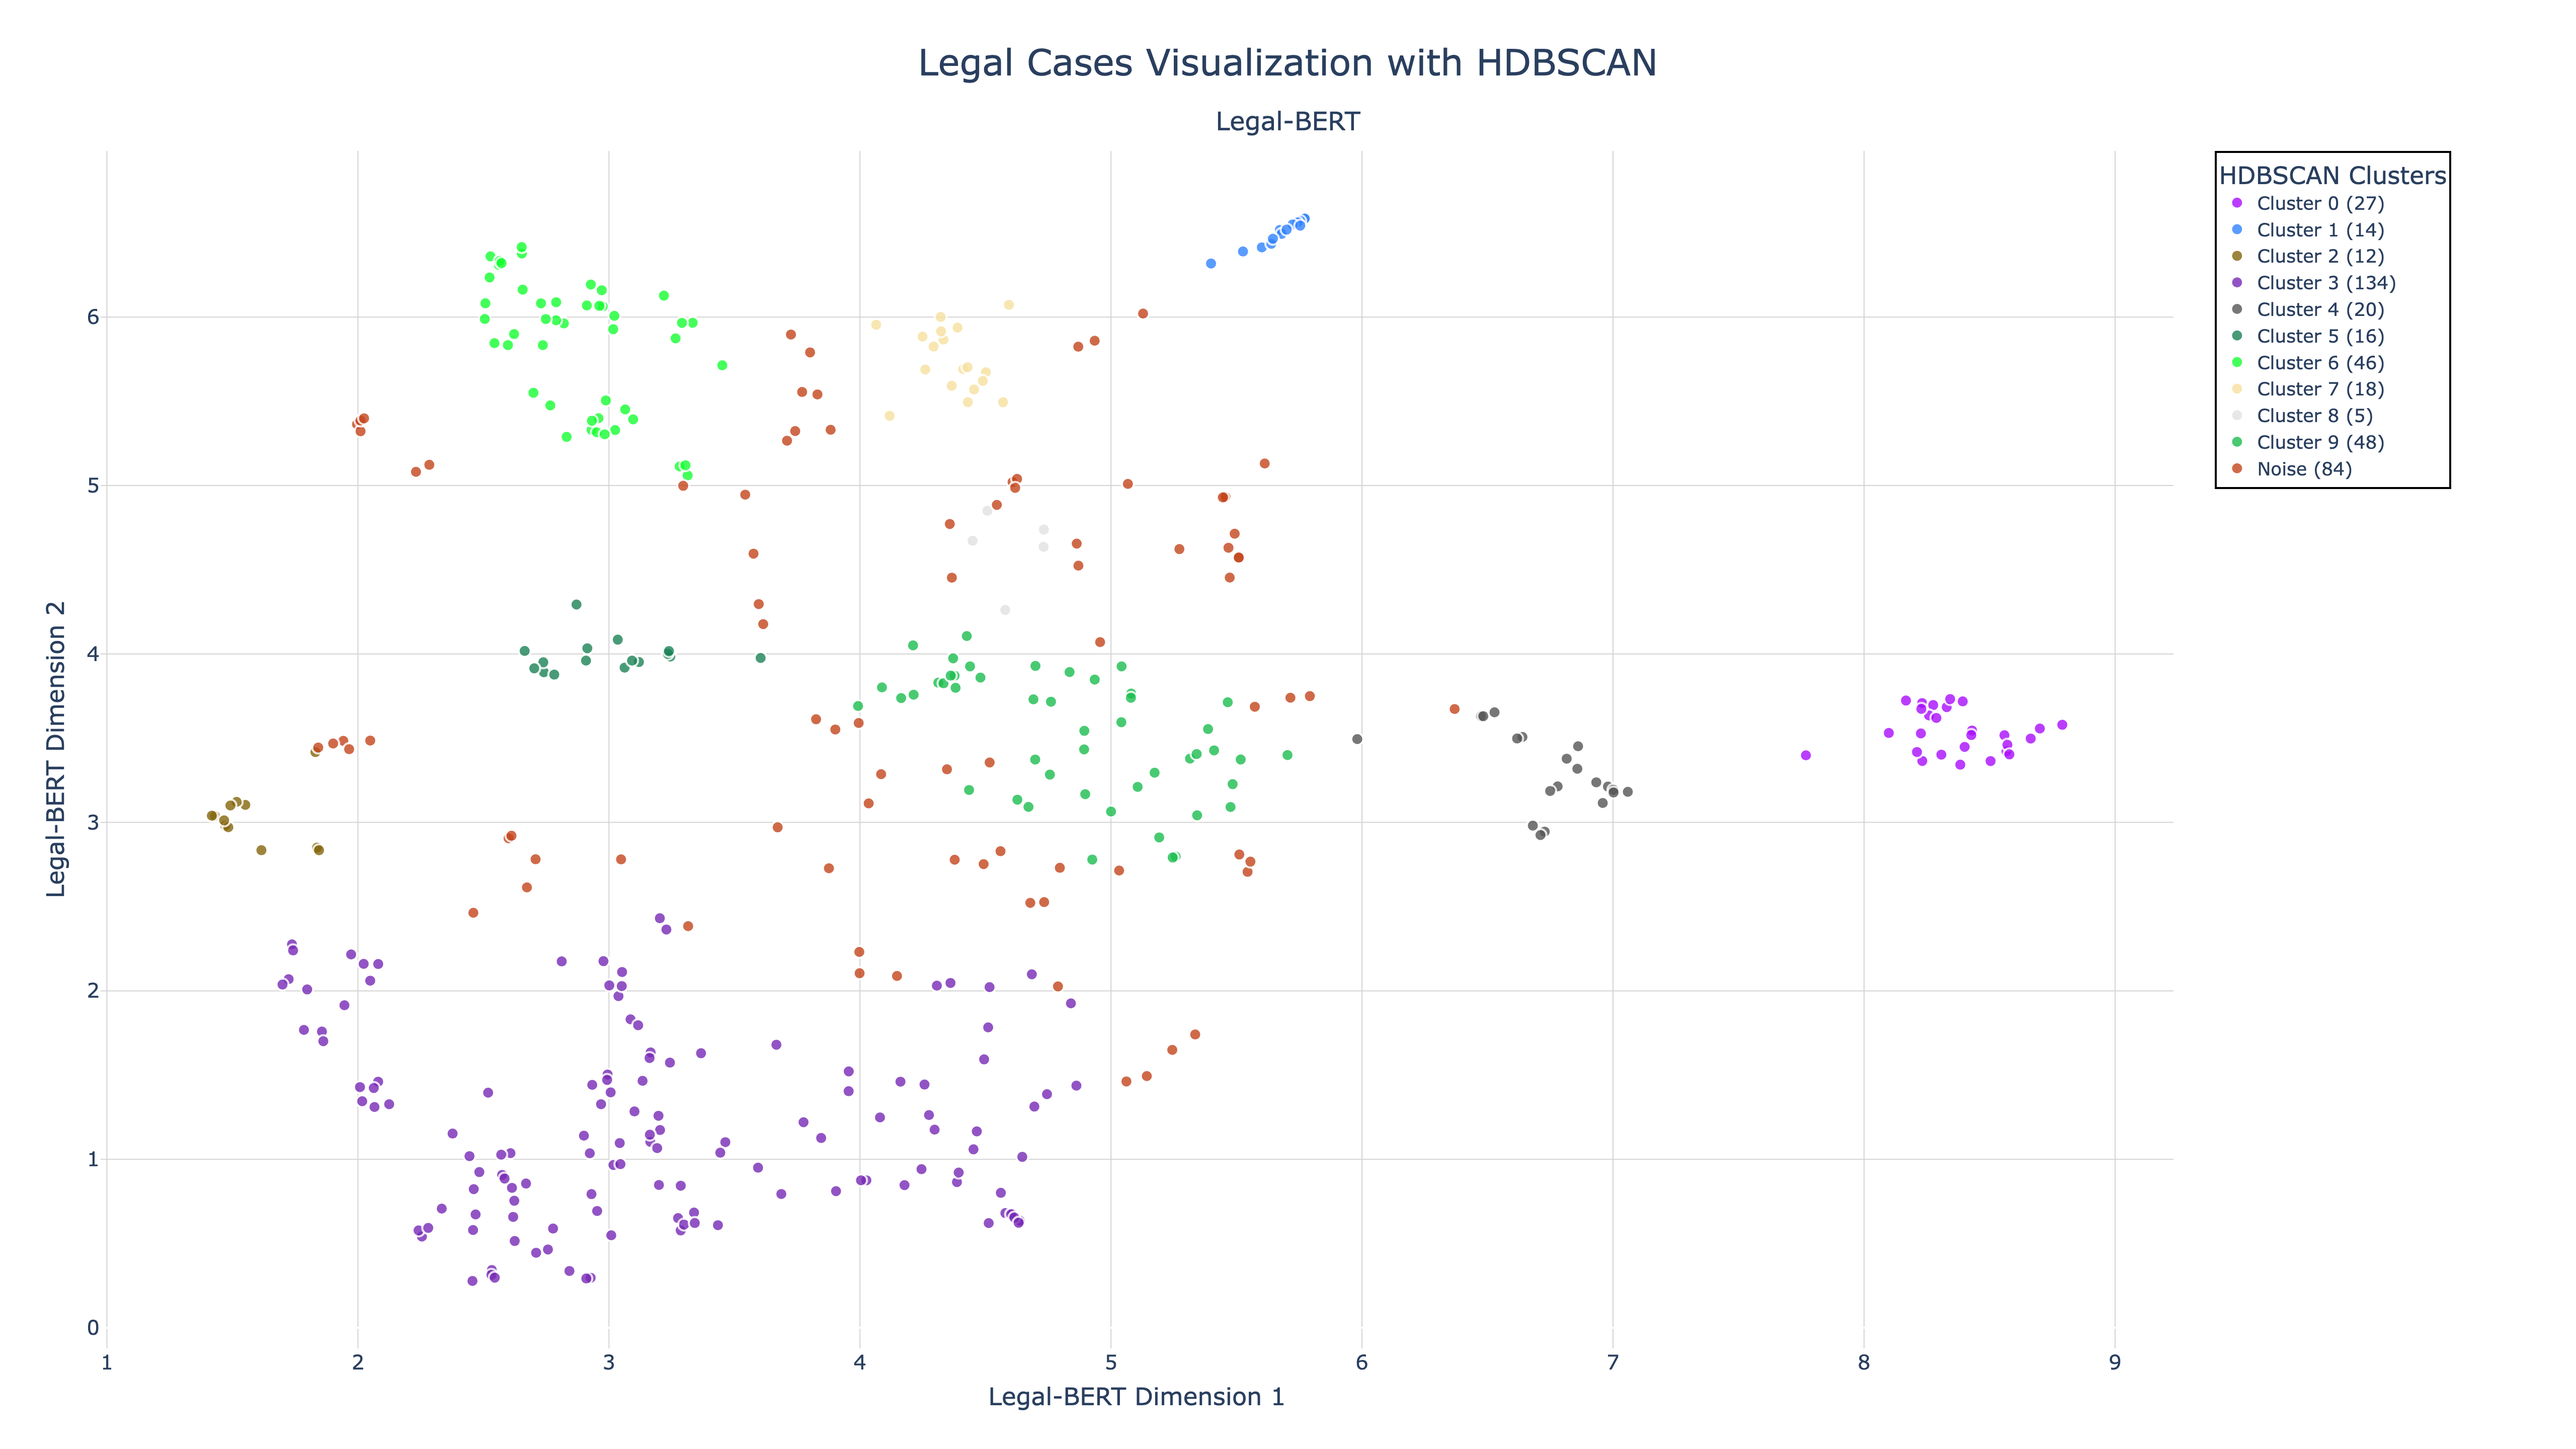
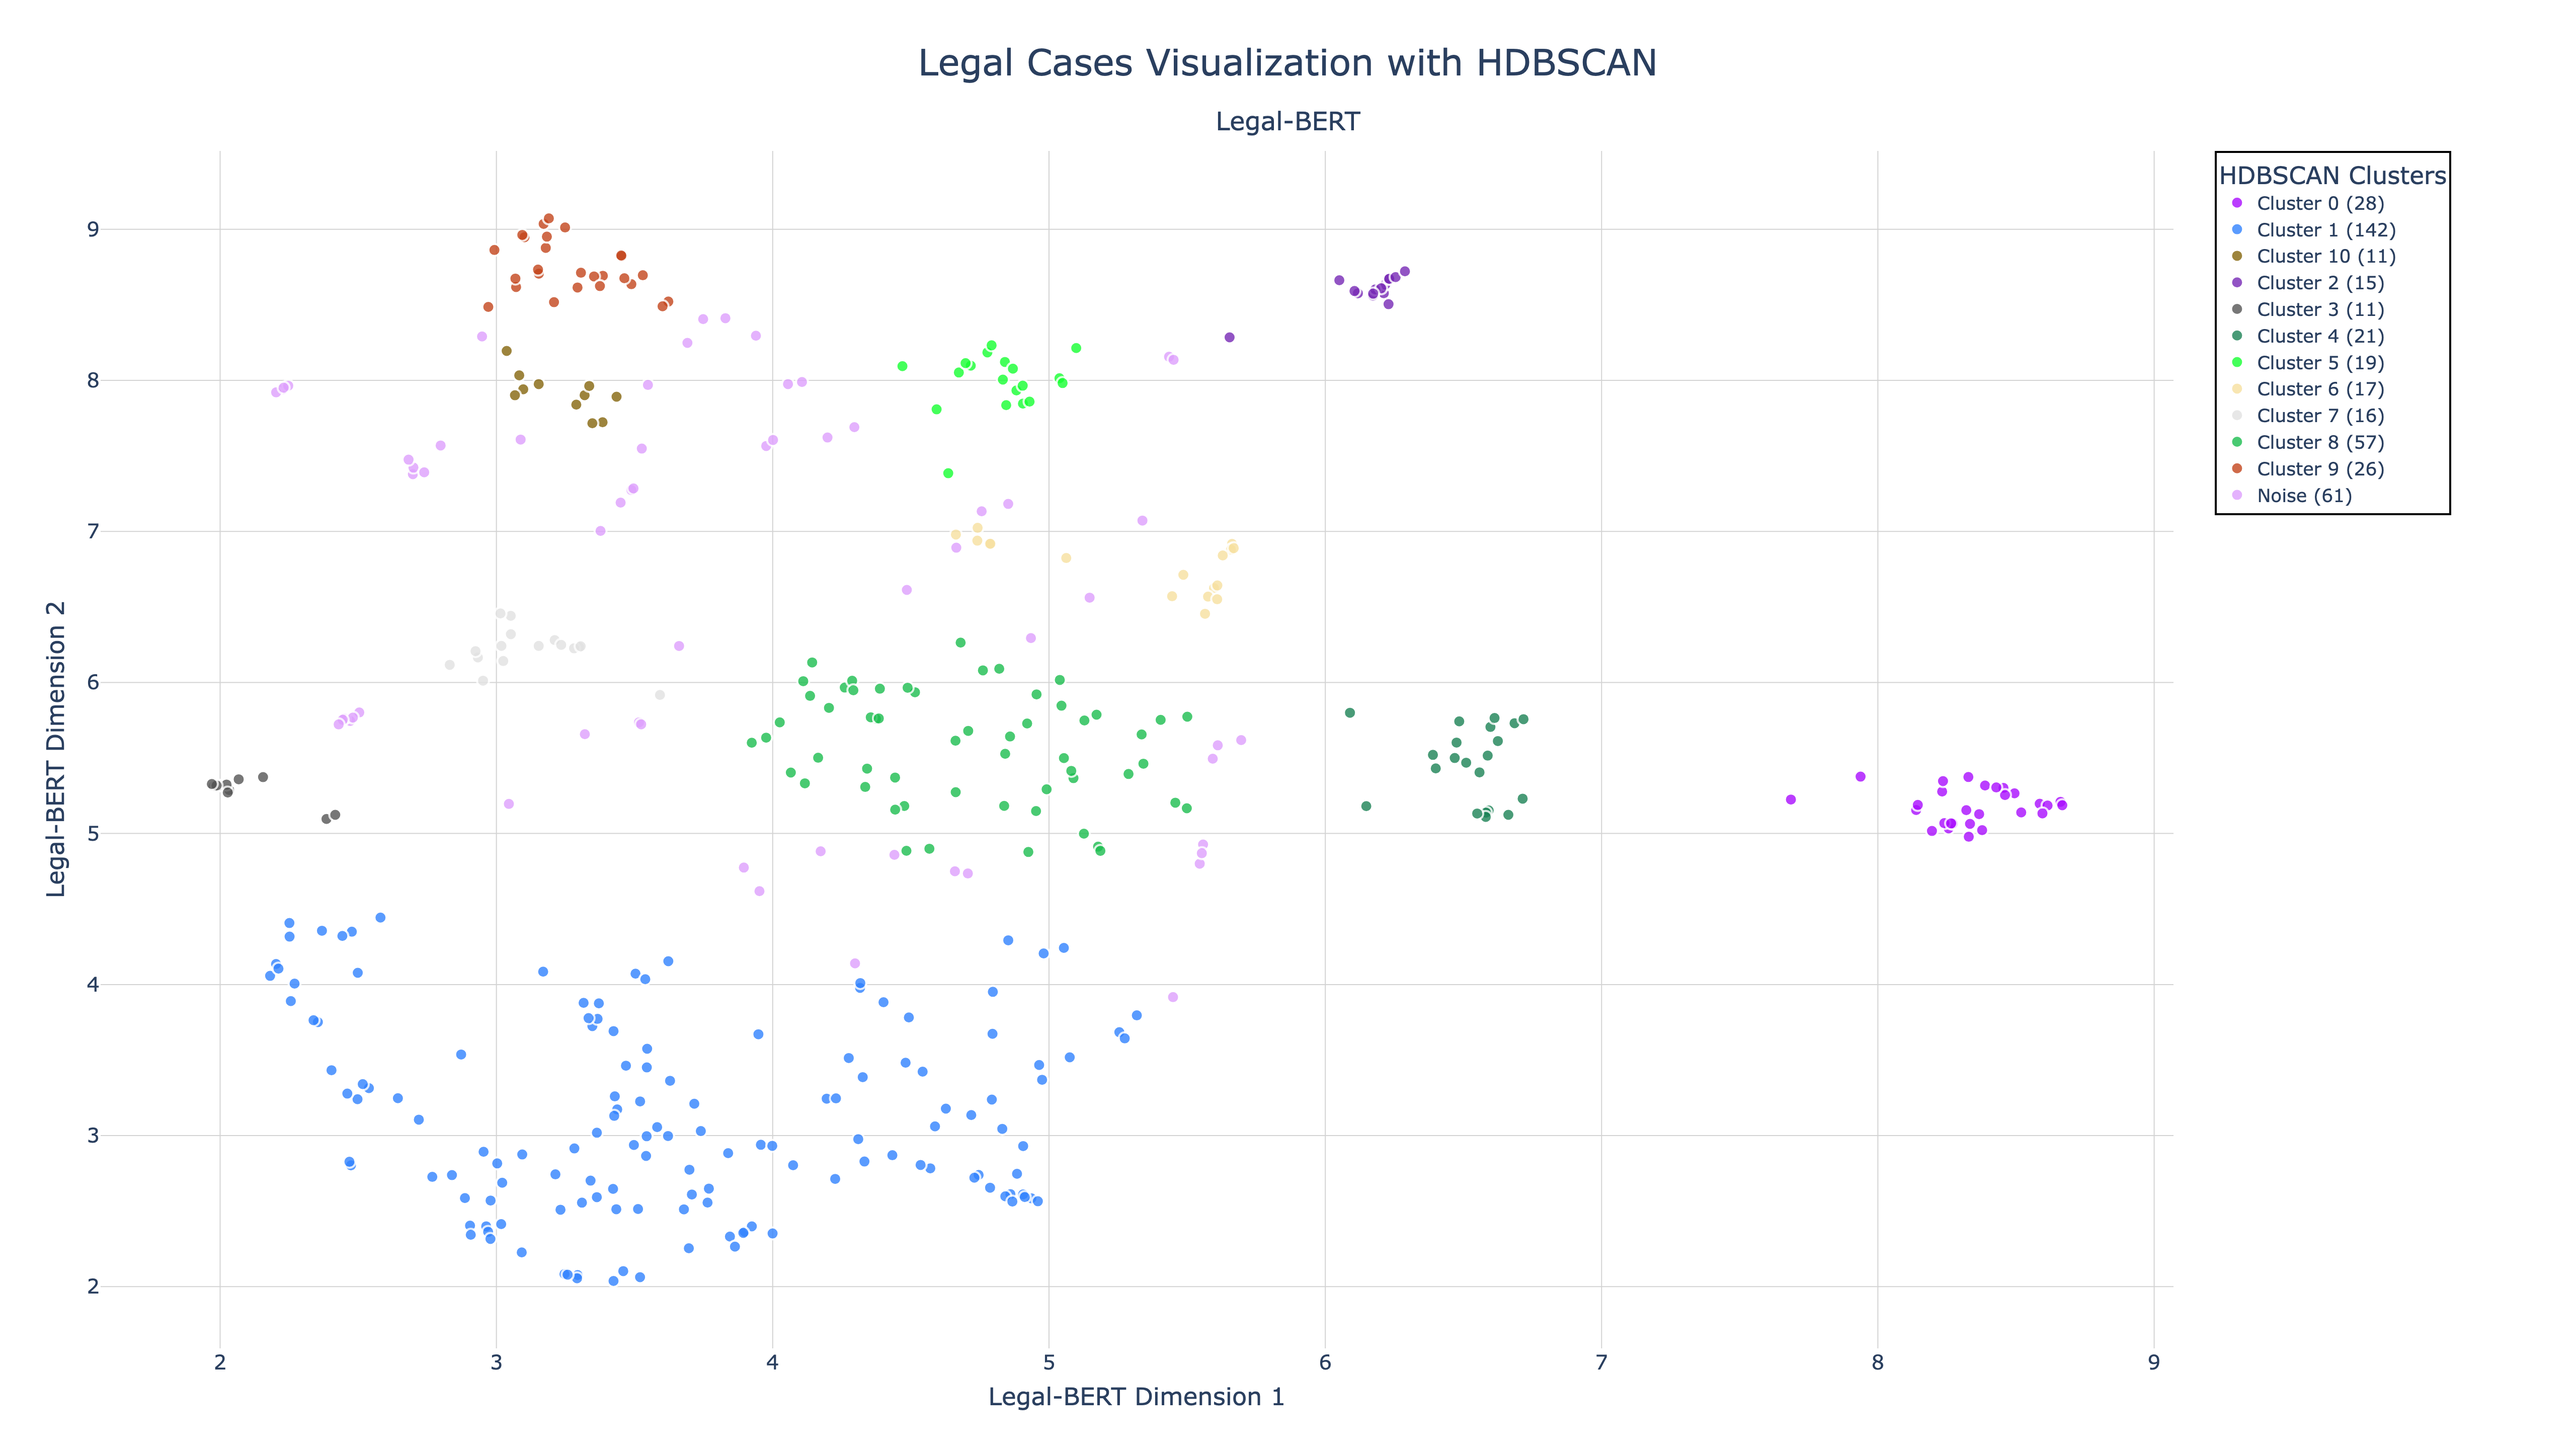
fixing hdbscan to reuse one umap embedding

diff --git a/hdbscan_vis_getter_summary.py b/hdbscan_vis_getter_summary.py
@@ -14,7 +14,7 @@ import hdbscan
 # Config
 # ---------------------------
 DIR_PATH = 'STEP 2: get embed/summaries/categorized_cases.json'
-EMBEDDING_DIR = "STEP 2: get embed/summaries/embeddings/legalbert_embeddings.npy"
+UMAP_EMBED = 'STEP 3: umap/summary/umap_embedding.npy'
 TEXT_TYPE = "summary"
 MIN_DIST = 0.01
 N_NEIGHBORS = 15
@@ -60,24 +60,6 @@ def wrap_text(text, width=60):
     """Helper function to wrap text for better display"""
     return '<br>'.join(textwrap.wrap(str(text), width=width))
 
-
-def perform_umap(features):
-    """Perform UMAP dimensionality reduction"""
-    n_samples = features.shape[0]
-    n_neighbors = min(N_NEIGHBORS, max(2, n_samples - 1))
-    
-    scaler = StandardScaler()
-    features_scaled = scaler.fit_transform(features)
-    
-    reducer = UMAP(
-        n_neighbors=n_neighbors,
-        min_dist=MIN_DIST,
-    )
-    
-    embedding = reducer.fit_transform(features_scaled)
-    return embedding, reducer
-
-
 def perform_hdbscan(embedding, min_cluster_size=10, min_samples=10):
     """Perform HDBSCAN clustering on UMAP embeddings."""
     clusterer = hdbscan.HDBSCAN(
@@ -93,7 +75,7 @@ def create_interactive_visualization_hdbscan(
     embedding, titles, ai_materials, all_categories, hdbscan_labels, embedding_method="Legal-BERT"
 ):
     """Create UMAP visualization with HDBSCAN clustering on top."""
-    output_file = ('umap_vis_hdbscan_' + embedding_method + '_' + TEXT_TYPE + '.png')
+    output_file = ('hdbscan_' + embedding_method + '_' + TEXT_TYPE + '.png')
 
     # Convert -1 (noise) to string
     labels_str = ["Noise" if l == -1 else f"Cluster {l}" for l in hdbscan_labels]
@@ -204,8 +186,7 @@ def main():
 
     print(f"Loaded {len(titles)} cases")
 
-    embedding = np.load(EMBEDDING_DIR)
-    embedding_umap, reducer = perform_umap(embedding)
+    embedding_umap = np.load(UMAP_EMBED)
 
     # Run HDBSCAN
     print("Running HDBSCAN clustering...")

diff --git a/STEP 3: umap/summary/umap_vis_getter_summary.py b/STEP 3: umap/summary/umap_vis_getter_summary.py
@@ -228,6 +228,7 @@ def perform_umap(features):
     )
     
     embedding = reducer.fit_transform(features_scaled)
+    np.save('umap_embedding.npy', embedding)
     return embedding, reducer
 
 
